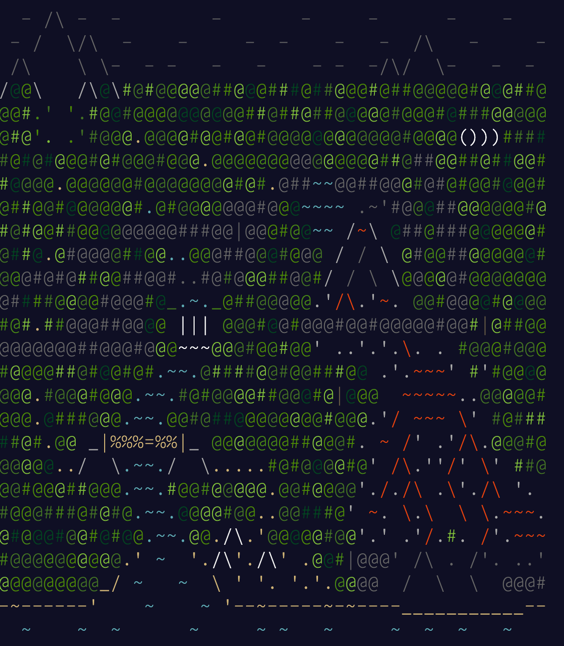
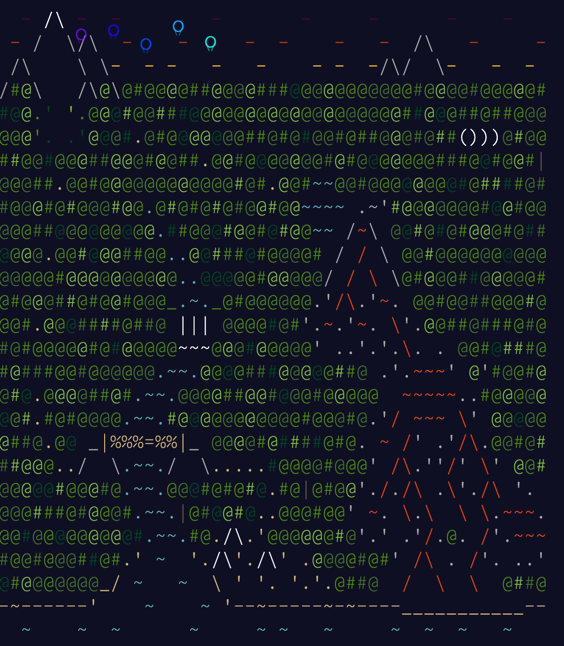
Aoc 2022 day 25 part 2

diff --git a/README.md b/README.md
@@ -55,8 +55,8 @@ One module for a year / one module per day inside year.
 
 * [2022](aoc-2022/README.md)
 
-[![Days completed](https://img.shields.io/badge/Days%20completed-24-blue)](2022)
-[![Stars](https://img.shields.io/badge/⭐-48-yellow)]()
+[![Days completed](https://img.shields.io/badge/Days%20completed-25-blue)](2022)
+[![Stars](https://img.shields.io/badge/⭐-50-yellow)]()
 
 | Day 	 | Name 	                                                                  | Completion 	 |
 |:-----:|:------------------------------------------------------------------------|:------------:|
@@ -75,13 +75,13 @@ One module for a year / one module per day inside year.
 | 13  	 | [Distress Signal](aoc-2022/src/main/java/aoc/day13/README.md)           |     ⭐⭐      |
 | 14  	 | [Regolith Reservoir](aoc-2022/src/main/java/aoc/day14/README.md)        |     ⭐⭐      |
 | 15  	 | [Beacon Exclusion Zone](aoc-2022/src/main/java/aoc/day15/README.md)     |     ⭐⭐      |
-| 16  	 | [Proboscidea Volcanium](aoc-2022/src/main/java/aoc/day16/README.md)	    |     ⭐⭐      |
-| 17  	 | [Pyroclastic Flow](aoc-2022/src/main/java/aoc/day17/README.md)	         |     ⭐⭐      |
-| 18  	 | [Boiling Boulders](aoc-2022/src/main/java/aoc/day18/README.md)	         |     ⭐⭐      |
-| 19  	 | [Not Enough Minerals](aoc-2022/src/main/java/aoc/day19/README.md)	      |     ⭐⭐      |
-| 20  	 | [Grove Positioning System](aoc-2022/src/main/java/aoc/day20/README.md)	 |     ⭐⭐      |
-| 21  	 | [Monkey Math](aoc-2022/src/main/java/aoc/day21/README.md)	              |     ⭐⭐      |
+| 16  	 | [Proboscidea Volcanium](aoc-2022/src/main/java/aoc/day16/README.md)	   |     ⭐⭐      |
+| 17  	 | [Pyroclastic Flow](aoc-2022/src/main/java/aoc/day17/README.md)	       |     ⭐⭐      |
+| 18  	 | [Boiling Boulders](aoc-2022/src/main/java/aoc/day18/README.md)	       |     ⭐⭐      |
+| 19  	 | [Not Enough Minerals](aoc-2022/src/main/java/aoc/day19/README.md)	   |     ⭐⭐      |
+| 20  	 | [Grove Positioning System](aoc-2022/src/main/java/aoc/day20/README.md)  |     ⭐⭐      |
+| 21  	 | [Monkey Math](aoc-2022/src/main/java/aoc/day21/README.md)	           |     ⭐⭐      |
 | 22  	 | [Monkey Map](aoc-2022/src/main/java/aoc/day22/README.md)	               |     ⭐⭐      |
 | 23  	 | [Unstable Diffusion](aoc-2022/src/main/java/aoc/day23/README.md)        |     ⭐⭐      |
 | 24  	 | [Blizzard Basin](aoc-2022/src/main/java/aoc/day24/README.md)            |     ⭐⭐      |
-| 25  	 | [Full of Hot Air](aoc-2022/src/main/java/aoc/day25/README.md)           |     ⭐❌      |
+| 25  	 | [Full of Hot Air](aoc-2022/src/main/java/aoc/day25/README.md)           |     ⭐⭐      |

diff --git a/aoc-2022/README.md b/aoc-2022/README.md
@@ -3,7 +3,7 @@
 [![About](https://img.shields.io/badge/Advent%20of%20Code-2022-brightgreen)](https://adventofcode.com/2022/about)
 [![Language](https://img.shields.io/badge/Language-Java-orange)](https://www.java.com/)
 [![Days completed](https://img.shields.io/badge/Days%20completed-25-blue)]()
-[![Stars](https://img.shields.io/badge/⭐-48-yellow)]()
+[![Stars](https://img.shields.io/badge/⭐-50-yellow)]()
 
 [![](img/Aoc2022.png)](https://adventofcode.com/2022)
 
@@ -33,4 +33,4 @@
 | 22  	 | [Monkey Map](src/main/java/aoc/day22/README.md)	              |     ⭐⭐      |
 | 23  	 | [Unstable Diffusion](src/main/java/aoc/day23/README.md)       |     ⭐⭐      |
 | 24  	 | [Blizzard Basin](src/main/java/aoc/day24/README.md)           |     ⭐⭐      |
-| 25  	 | [Full of Hot Air](src/main/java/aoc/day25/README.md)          |     ⭐❌      |
+| 25  	 | [Full of Hot Air](src/main/java/aoc/day25/README.md)          |     ⭐⭐      |

diff --git a/aoc-2022/src/main/java/aoc/day25/README.md b/aoc-2022/src/main/java/aoc/day25/README.md
@@ -107,5 +107,3 @@ The **head smoothie chef** has just finished warming up the industrial-grade smo
 As you do, a very young Elf - one you recognize from the expedition team - approaches the table and holds up a single **star** fruit he found. The head smoothie chef places it in the blender.
 
 Only **49 stars** to go.
-
-You don't have enough stars to fill the blender, though. You need 3 more.
